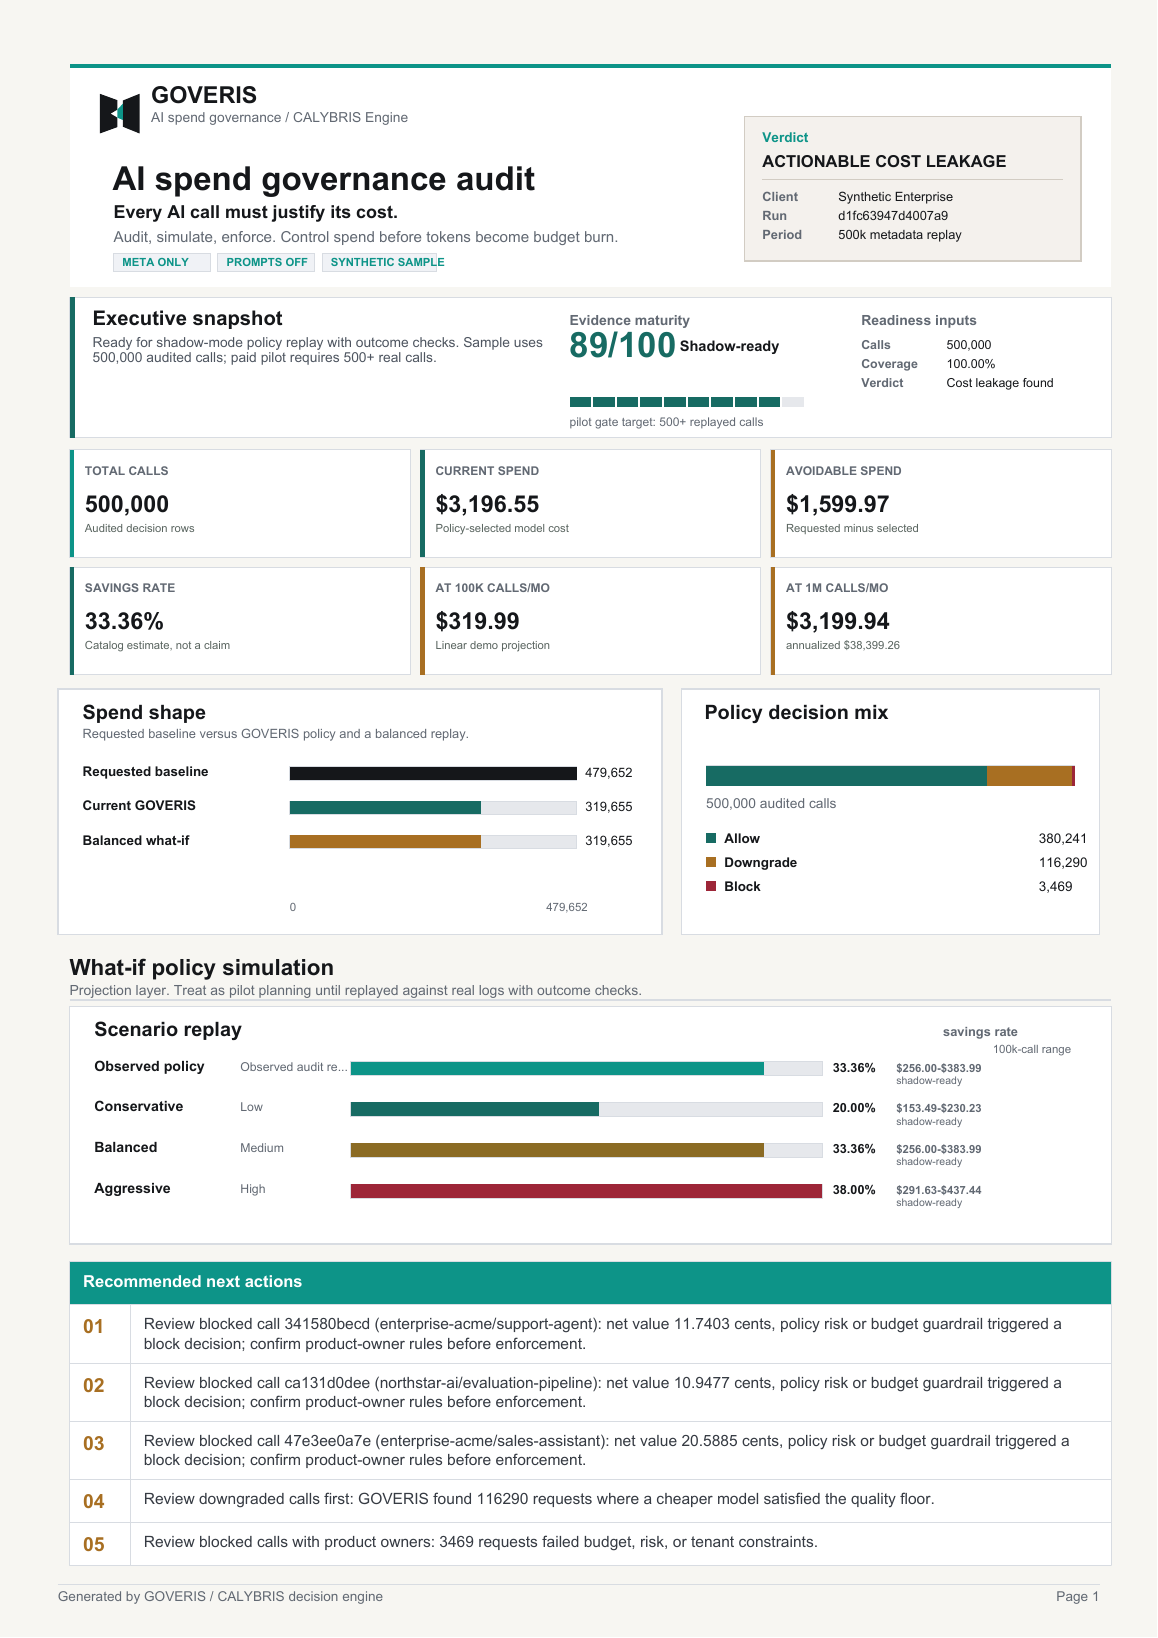
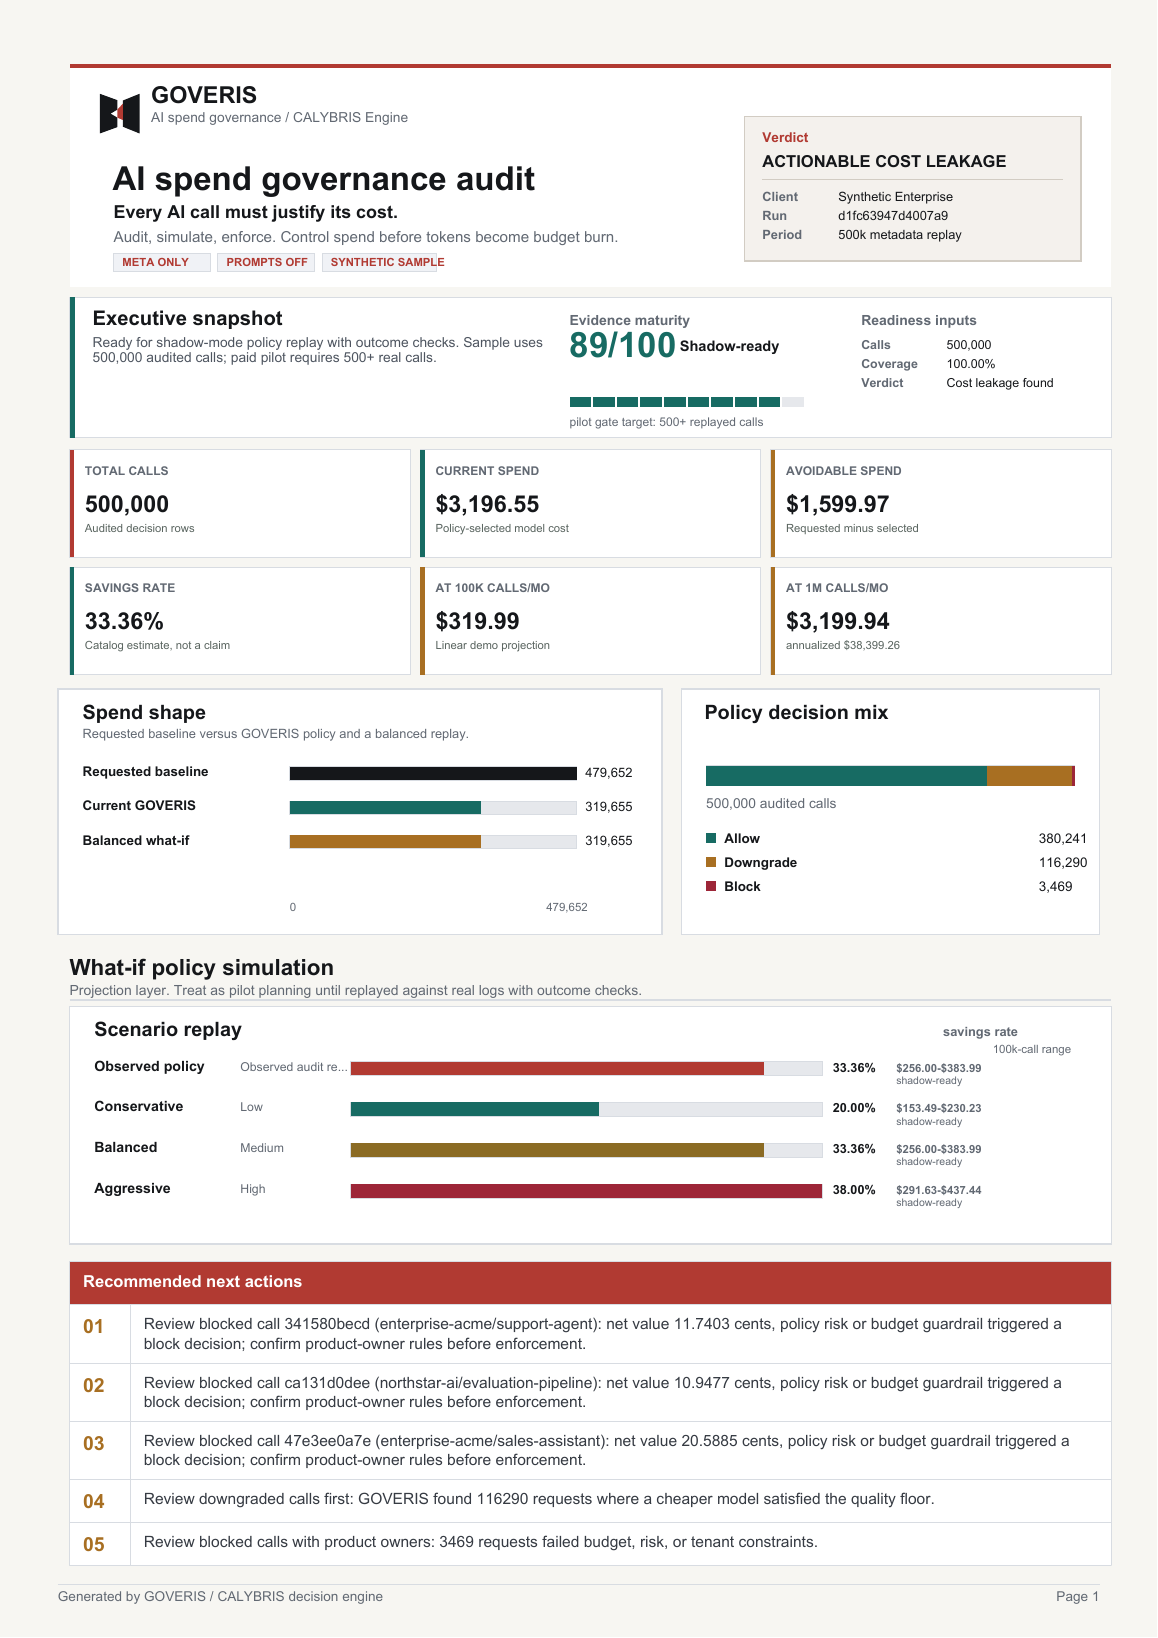
Launch burgundy Goveris audit experience

Changed region(s): [[0.0622, 0.7473, 0.9637, 0.8095], [0.3109, 0.6227, 0.6528, 0.6538], [0.342, 0.1557, 0.3731, 0.1868]]

diff --git a/goveris/index.html b/goveris/index.html
@@ -86,9 +86,10 @@
       <section class="hero" id="platform">
         <div class="hero-copy">
           <p class="eyebrow">GOVERIS — AI spend governance product · Powered by CALYBRIS engine</p>
-          <h1>Control LLM spend before the invoice arrives.</h1>
+          <h1>Find the <span class="hero-accent">20–40%</span> of LLM spend nobody reviewed.</h1>
           <p class="hero-lede">
-            Get your LLM spend audit in 7 days. GOVERIS deploys a private Docker image inside your VPC, observes model call metadata, and produces a board-readable audit with what-if policy scenarios. No prompt capture. No log export.
+            In 7 days, a private Docker image turns metadata-only traffic into a board-readable
+            spend audit and policy replay. Your prompts stay in your VPC. Production routing stays unchanged.
           </p>
           <div class="hero-actions" aria-label="GOVERIS actions">
             <a href="mailto:[email redacted]?subject=GOVERIS%207-Day%20Audit&body=Monthly%20LLM%20calls%3A%20%0AProvider%20stack%3A%20%0ADeployment%20env%3A%20%0A">Get your spend audit in 7 days</a>
@@ -96,9 +97,9 @@
             <a href="#audit">View sample PDF</a>
           </div>
           <div class="signal-row" aria-label="GOVERIS proof points">
-            <span><strong>20–40%</strong> typical avoidable spend identified</span>
+            <span><strong>7 days</strong> from metadata to executive audit</span>
             <span><strong>CALYBRIS</strong> proof-carrying engine</span>
-            <span><strong>231 tests</strong> fault injection + proptest + loom</span>
+            <span><strong>269 Rust tests</strong> fault injection + proptest + loom</span>
             <span><strong>OpenAI · Anthropic · Google</strong> compatible</span>
           </div>
         </div>
@@ -220,9 +221,9 @@
           </p>
         </div>
         <dl class="benchmark-metrics" style="grid-template-columns:repeat(4,minmax(0,1fr))">
-          <div><dt>Integer kernel</dt><dd>10.27M/s</dd><small>3-run median</small></div>
+          <div><dt>Integer kernel</dt><dd>9.19M/s</dd><small>correctness-guarded median</small></div>
           <div><dt>Durable HTTP</dt><dd>6,084 req/s</dd><small>c=128 · 1 ms mock</small></div>
-          <div><dt>HTTP p99</dt><dd>42 ms</dd><small>15,000 requests · 0 failed</small></div>
+          <div><dt>HTTP p99</dt><dd>44 ms</dd><small>15,000 requests · 0 failed</small></div>
           <div><dt>Durable WAL</dt><dd>10,684/s</dd><small>current contended host</small></div>
         </dl>
         <p class="benchmark-caveat">
@@ -234,7 +235,7 @@
       <section class="proof-band" aria-label="Engineering proof">
         <div>
           <span>Engineering proof</span>
-          <strong>231 tests · fault injection · proptest · loom exhaustive concurrency</strong>
+          <strong>269 Rust tests · fault injection · proptest · loom exhaustive concurrency</strong>
         </div>
         <div>
           <span>Hardened</span>
@@ -534,45 +535,45 @@ enforcement    off during replay</pre>
       <section class="pricing-section" id="pricing">
         <div class="section-heading">
           <p class="eyebrow">Adoption path</p>
-          <h2>Choose your audit depth.</h2>
+          <h2>Fixed scope. Clear price. No surprise integration bill.</h2>
           <p>
-            Typical teams identify 20–40% avoidable LLM spend in the first replay.
-            No upfront commitment. Start read-only, enforce only after evidence.
+            Every package starts read-only. Savings are scenario estimates until your outcomes validate them.
           </p>
         </div>
         <div class="pricing-grid">
           <article>
-            <span>Starter audit</span>
-            <strong>$75–150</strong>
-            <p>Same-day triage from anonymized logs. Markdown memo, JSON summary, top savings opportunities.</p>
+            <span>Shadow scan</span>
+            <strong>$490 fixed</strong>
+            <p>A focused metadata-only scan for one team that needs a fast, defensible spend baseline.</p>
             <ul class="check-list">
-              <li>Delivery: same day</li>
-              <li>Minimum: 100 LLM calls</li>
-              <li>Output: Markdown + JSON</li>
+              <li>7-day observation window</li>
+              <li>Up to 50,000 metadata events</li>
+              <li>1 provider · 1 business unit</li>
+              <li>Executive brief + top 10 actions</li>
             </ul>
           </article>
           <article>
-            <span>Standard replay</span>
-            <strong>$250–750</strong>
-            <p>Private Docker pilot in your VPC. Shadow replay, tenant breakdown, what-if scenarios, PDF audit.</p>
+            <span>Decision audit</span>
+            <strong>$1,500 fixed</strong>
+            <p>The full private Docker pilot: attribution, proof trail, what-if policies, and board-ready reporting.</p>
             <ul class="check-list">
-              <li>Setup: under 30 minutes</li>
-              <li>Duration: 7–14 days</li>
-              <li>Minimum: 500 calls</li>
-              <li>Output: PDF + HTML + JSON</li>
-              <li>3 policy scenarios included</li>
+              <li>7-day observation window</li>
+              <li>Up to 250,000 metadata events</li>
+              <li>Up to 2 providers · 3 business units</li>
+              <li>PDF + dashboard + evidence hashes</li>
+              <li>3 policy scenarios + review session</li>
             </ul>
           </article>
           <article>
-            <span>Gateway review</span>
-            <strong>$1,000+</strong>
-            <p>Full proxy mode evaluation. WAL tracing, shadow traffic, canary rollout plan, enforcement roadmap.</p>
+            <span>Gateway readiness</span>
+            <strong>From $3,500</strong>
+            <p>Provider contract validation and a canary-ready plan for teams considering governed execution.</p>
             <ul class="check-list">
-              <li>Duration: 14–30 days</li>
-              <li>Includes: proxy mode + shadow</li>
-              <li>Minimum: 5,000 calls</li>
-              <li>Output: full audit + rollout plan</li>
-              <li>Dedicated Slack/email support</li>
+              <li>14-day technical engagement</li>
+              <li>Idempotency + timeout reconciliation</li>
+              <li>WAL recovery + load evidence</li>
+              <li>Canary, rollback, and SLO plan</li>
+              <li>Enforcement remains approval-gated</li>
             </ul>
           </article>
         </div>
@@ -584,7 +585,7 @@ enforcement    off during replay</pre>
           <h2>Deploy in your VPC with a single docker compose.</h2>
           <p>
             No agent installation. No log export. No prompt capture.
-            Point your app at GOVERIS, mirror metadata for 7–14 days,
+            Mirror approved metadata to GOVERIS for 7 days,
             then pull the audit report from the API.
           </p>
         </div>
@@ -595,7 +596,7 @@ enforcement    off during replay</pre>
           </article>
           <article>
             <span>Step 2</span>
-            <p>Point your app to http://goveris:8080/v1/chat/completions</p>
+            <p>Mirror metadata to POST http://goveris:8080/api/v1/route</p>
           </article>
           <article>
             <span>Step 3</span>
@@ -624,12 +625,12 @@ enforcement    off during replay</pre>
 
       <section class="demo-section" id="demo">
         <div class="section-heading">
-          <p class="eyebrow">Interactive decision lab</p>
-          <h2>Change the workload. See the policy decision and its proof.</h2>
+          <p class="eyebrow">Live policy replay</p>
+          <h2>Change the workload. Watch Calybris decide in real time.</h2>
           <p>
-            Pick a realistic workload below. The page calls the deployed Calybris API when one is
-            available and falls back to the same deterministic public-demo policy in the browser.
-            No provider key is exposed and no paid model call is made.
+            The first scenario runs automatically. When a Calybris demo endpoint is available the
+            decision is server-authored; otherwise the page uses the disclosed deterministic browser policy.
+            Either way, the proof and decision factors appear immediately—without a paid model call.
           </p>
         </div>
 
@@ -666,8 +667,8 @@ enforcement    off during replay</pre>
             </button>
             <div class="demo-runtime">
               <span>Evaluation source</span>
-              <strong id="demo-source">waiting</strong>
-              <small id="demo-source-note">No paid provider call is made.</small>
+              <strong id="demo-source">starting policy replay</strong>
+              <small id="demo-source-note">Resolving the public Calybris decision path.</small>
             </div>
           </aside>
 
@@ -677,7 +678,7 @@ enforcement    off during replay</pre>
                 <h3>Decision ledger</h3>
                 <p id="scenario-summary">Order-status request / support-emea / standard</p>
               </div>
-              <span id="ledger-action">waiting</span>
+              <span id="ledger-action">evaluating</span>
             </div>
 
             <dl class="ledger-grid">

diff --git a/goveris/styles.css b/goveris/styles.css
@@ -1,23 +1,23 @@
 :root {
   color-scheme: light;
-  --bg: #f4f3ee;
-  --bg-2: #ebe9e2;
+  --bg: #f6f3ef;
+  --bg-2: #ece5df;
   --ink: #15171a;
   --muted: #5f6670;
   --dim: #7b828c;
   --panel: #ffffff;
-  --panel-strong: #f0f2f6;
+  --panel-strong: #f3eeea;
   --panel-dark: #ffffff;
   --glass-line: #d9dde3;
   --glass-line-strong: #bdc3cc;
-  --brand: #0d9488;
-  --brand-strong: #0a7a6f;
+  --brand: #b13a32;
+  --brand-strong: #8f2f29;
   --brand-ink: #ffffff;
   --cream: #15171a;
-  --blue: #0d9488;
+  --blue: #b13a32;
   --amber: #8b6b24;
   --danger: #dc2626;
-  --signal: #0d9488;
+  --signal: #b13a32;
   --shadow: rgba(0, 0, 0, 0.48);
   --mono: ui-monospace, SFMono-Regular, Menlo, Consolas, "Liberation Mono", monospace;
   --sans:
@@ -91,7 +91,7 @@ a {
   align-items: center;
   min-height: 72px;
   border-bottom: 1px solid var(--glass-line);
-  background: rgba(244, 243, 238, 0.96);
+  background: rgba(246, 243, 239, 0.96);
   backdrop-filter: blur(14px);
   transition:
     background 180ms ease,
@@ -99,8 +99,8 @@ a {
 }
 
 .has-scrolled .topbar {
-  background: rgba(244, 243, 238, 0.985);
-  box-shadow: 0 12px 30px rgba(21, 23, 26, 0.06);
+  background: rgba(246, 243, 239, 0.985);
+  box-shadow: 0 12px 30px rgba(70, 31, 28, 0.07);
 }
 
 .brand {
@@ -195,17 +195,16 @@ a {
   display: inline-flex;
   align-items: center;
   min-height: 38px;
-  border-color: var(--glass-line);
-  border: 1px solid var(--ink);
+  border: 1px solid var(--brand);
   border-radius: 6px;
-  background: transparent;
-  color: var(--cream);
+  background: var(--brand);
+  color: #ffffff;
   padding: 0 13px;
 }
 
 .topbar-cta:hover {
-  border-color: var(--brand);
-  background: #ffffff;
+  border-color: var(--brand-strong);
+  background: var(--brand-strong);
 }
 
 #health {
@@ -345,6 +344,23 @@ button {
   background: #ffffff;
 }
 
+.hero-accent {
+  color: var(--brand);
+  white-space: nowrap;
+}
+
+.hero-actions a:first-child {
+  border-color: var(--brand);
+  background: var(--brand);
+  color: #ffffff;
+  box-shadow: 0 14px 34px rgba(177, 58, 50, 0.18);
+}
+
+.hero-actions a:first-child:hover {
+  border-color: var(--brand-strong);
+  background: var(--brand-strong);
+}
+
 button:hover,
 .hero-actions a:hover {
   transform: translateY(-1px);
@@ -365,7 +381,7 @@ button:disabled {
 .signal-row span {
   border: 1px solid var(--glass-line);
   border-radius: 999px;
-  background: rgba(255, 255, 255, 0.68);
+  background: rgba(255, 255, 255, 0.78);
   color: var(--muted);
   font-family: var(--mono);
   font-size: 12px;
@@ -383,10 +399,10 @@ button:disabled {
   --panel-x: 0px;
   --panel-y: 0px;
   border: 1px solid var(--glass-line-strong);
-  border-radius: 8px;
+  border-radius: 12px;
   background: #ffffff;
   box-shadow:
-    0 32px 80px rgba(21, 23, 26, 0.12),
+    0 34px 90px rgba(76, 34, 30, 0.14),
     inset 0 1px 0 #ffffff;
   overflow: hidden;
   transform: perspective(1300px) rotateX(var(--tilt-x)) rotateY(var(--tilt-y));
@@ -403,7 +419,7 @@ button:disabled {
 
 .hero-product:hover {
   box-shadow:
-    0 38px 92px rgba(21, 23, 26, 0.15),
+    0 40px 100px rgba(76, 34, 30, 0.17),
     inset 0 1px 0 #ffffff;
 }
 
@@ -427,7 +443,7 @@ button:disabled {
 
 .engine-label {
   margin-left: auto;
-  border-left: 1px solid rgba(23, 107, 99, 0.46);
+  border-left: 1px solid rgba(177, 58, 50, 0.42);
   color: var(--signal);
   font-size: 10px;
   letter-spacing: 0.06em;
@@ -469,7 +485,7 @@ button:disabled {
   align-items: flex-start;
   border: 1px solid #d9d4cc;
   border-radius: 8px;
-  background: #f4f2ed;
+  background: #f7f1ed;
   box-shadow: inset 3px 0 0 var(--brand);
   padding: 18px;
 }
@@ -496,7 +512,7 @@ button:disabled {
 
 .surface-heading b,
 .decision-row strong {
-  border: 1px solid rgba(13, 148, 136, 0.3);
+  border: 1px solid rgba(177, 58, 50, 0.32);
   border-radius: 999px;
   color: var(--brand);
   font-family: var(--mono);
@@ -605,8 +621,8 @@ dd {
 }
 
 .route-map .gate {
-  border-color: rgba(77, 115, 216, 0.58);
-  box-shadow: inset 0 -2px 0 rgba(77, 115, 216, 0.35);
+  border-color: rgba(177, 58, 50, 0.52);
+  box-shadow: inset 0 -2px 0 rgba(177, 58, 50, 0.32);
 }
 
 .route-map strong {
@@ -633,7 +649,7 @@ dd {
   height: 5px;
   border-radius: 999px;
   background: var(--brand);
-  box-shadow: 0 0 10px rgba(13, 148, 136, 0.26);
+  box-shadow: 0 0 10px rgba(177, 58, 50, 0.24);
   content: "";
   animation: routePulse 1800ms cubic-bezier(0.4, 0, 0.2, 1) infinite;
 }
@@ -970,6 +986,13 @@ dd {
   padding: 22px;
 }
 
+.pricing-grid article:nth-child(2) {
+  border-color: rgba(177, 58, 50, 0.48);
+  box-shadow:
+    inset 0 3px 0 var(--brand),
+    0 18px 40px rgba(76, 34, 30, 0.08);
+}
+
 .problem-grid article,
 .executive-grid article,
 .workflow-grid article,
@@ -991,7 +1014,7 @@ dd {
   .audit-output div:hover,
   .contact-card:hover,
   .glass-panel:hover {
-    border-color: rgba(13, 148, 136, 0.38);
+    border-color: rgba(177, 58, 50, 0.38);
     box-shadow: 0 18px 42px rgba(21, 23, 26, 0.08);
     transform: translateY(-3px);
   }
@@ -1379,10 +1402,10 @@ dd {
 
 .hero-product.is-evaluating .surface-heading,
 .hero-product.is-evaluating .route-map .gate {
-  border-color: rgba(13, 148, 136, 0.68);
+  border-color: rgba(177, 58, 50, 0.68);
   box-shadow:
     inset 3px 0 0 var(--brand),
-    0 0 0 4px rgba(13, 148, 136, 0.07);
+    0 0 0 4px rgba(177, 58, 50, 0.07);
 }
 
 .hero-product.is-evaluating .route-map i::after {
@@ -1426,10 +1449,10 @@ dd {
 @keyframes statusBreathe {
   0%,
   100% {
-    box-shadow: 0 0 0 0 rgba(13, 148, 136, 0);
+    box-shadow: 0 0 0 0 rgba(177, 58, 50, 0);
   }
   50% {
-    box-shadow: 0 0 0 4px rgba(13, 148, 136, 0.06);
+    box-shadow: 0 0 0 4px rgba(177, 58, 50, 0.06);
   }
 }
 